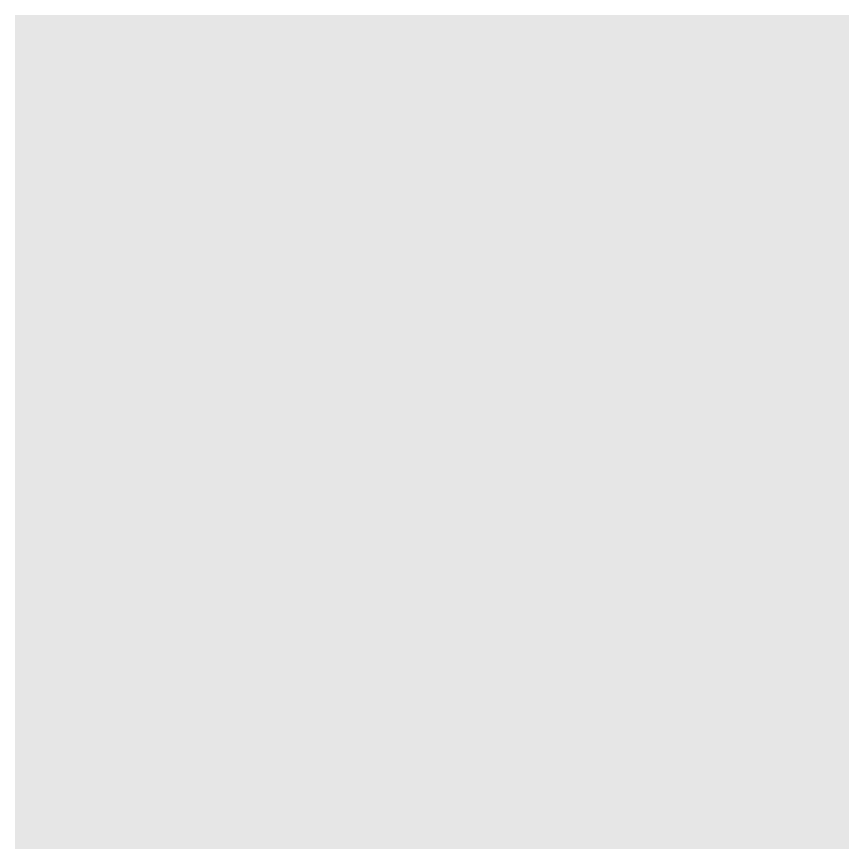
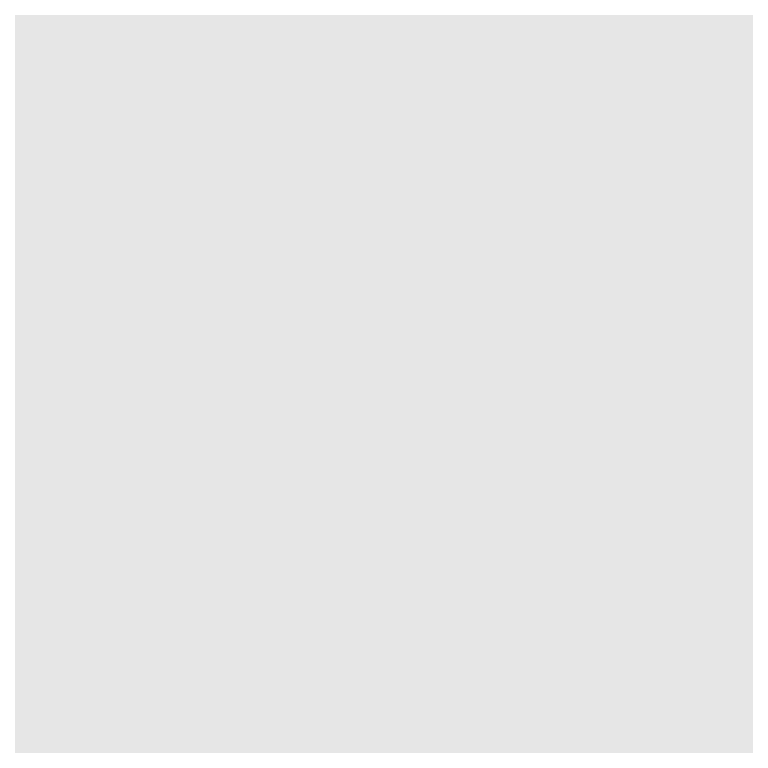
fix plots running off the page

diff --git a/docs/slides/week-2/week-2-ggplot-short.html b/docs/slides/week-2/week-2-ggplot-short.html
@@ -301,7 +301,7 @@
 <div class="cell-output-display">
 <div class="quarto-figure quarto-figure-center">
 <figure>
-<p><img data-src="week-2-ggplot-short_files/figure-revealjs/blank-plot-1.png" class="quarto-figure quarto-figure-center" alt="An image of a blank gray square representing a blank plotting canvas." width="432"></p>
+<p><img data-src="week-2-ggplot-short_files/figure-revealjs/blank-plot-1.png" class="quarto-figure quarto-figure-center" alt="An image of a blank gray square representing a blank plotting canvas." width="384"></p>
 </figure>
 </div>
 </div>
@@ -320,7 +320,7 @@
 <div class="cell-output-display">
 <div class="quarto-figure quarto-figure-center">
 <figure>
-<p><img data-src="week-2-ggplot-short_files/figure-revealjs/add-variables-to-aesthetics-1.png" class="quarto-figure quarto-figure-center" alt="An image of a gray square with white gridlines representing a plotting canvas where the variables have been assigned to the x and y aesthetics. On the x-axis there is a variable named 'class' with seven different values mapped to a particular white gridline---2seater, compact, midsize, minivan, pickup, subcompact, suv. On the y-axis there is a variable named 'hwy' with three printed values mapped to different white gridlines---20, 30, and 40. The spaces between these gridlines represent values between the printed values (e.g., 25)." width="432"></p>
+<p><img data-src="week-2-ggplot-short_files/figure-revealjs/add-variables-to-aesthetics-1.png" class="quarto-figure quarto-figure-center" alt="An image of a gray square with white gridlines representing a plotting canvas where the variables have been assigned to the x and y aesthetics. On the x-axis there is a variable named 'class' with seven different values mapped to a particular white gridline---2seater, compact, midsize, minivan, pickup, subcompact, suv. On the y-axis there is a variable named 'hwy' with three printed values mapped to different white gridlines---20, 30, and 40. The spaces between these gridlines represent values between the printed values (e.g., 25)." width="384"></p>
 </figure>
 </div>
 </div>
@@ -337,18 +337,24 @@
 <span id="cb5-5"><a aria-hidden="true" tabindex="-1"></a>  <span class="fu">geom_boxplot</span>()</span></code><button title="Copy to Clipboard" class="code-copy-button"><i class="bi"></i></button></pre></div>
 </div>
 </div>
+<div class="columns">
+<div class="column" style="width:25%;">
 <p><strong>What do you expect to see after running this code?</strong></p>
+</div><div class="column" style="width:5%;">
+
+</div><div class="column" style="width:70%;">
 <div class="fragment">
 <div class="cell" data-layout-align="center">
 <div class="cell-output-display">
 <div class="quarto-figure quarto-figure-center">
 <figure>
-<p><img data-src="week-2-ggplot-short_files/figure-revealjs/adding-jittered-points-and-boxplots-1.png" class="quarto-figure quarto-figure-center" alt="The same visualization is presented, except there are not boxplots superimposed on top of the points (dots) for each vehicle type. The boxplots display the median (center line), quantiles (edges), and min / max (whiskers) of each vehicle's mileage." width="432"></p>
+<p><img data-src="week-2-ggplot-short_files/figure-revealjs/adding-jittered-points-and-boxplots-1.png" class="quarto-figure quarto-figure-center" alt="The same visualization is presented, except there are not boxplots superimposed on top of the points (dots) for each vehicle type. The boxplots display the median (center line), quantiles (edges), and min / max (whiskers) of each vehicle's mileage." width="384"></p>
 </figure>
 </div>
 </div>
 </div>
 </div>
+</div></div>
 </div>
 </div>
 </div>
@@ -406,7 +412,6 @@
 </ul>
 </div>
 </div></div>
-<p><br></p>
 <div class="callout callout-tip callout-titled callout-style-default">
 <div class="callout-body">
 <div class="callout-title">
